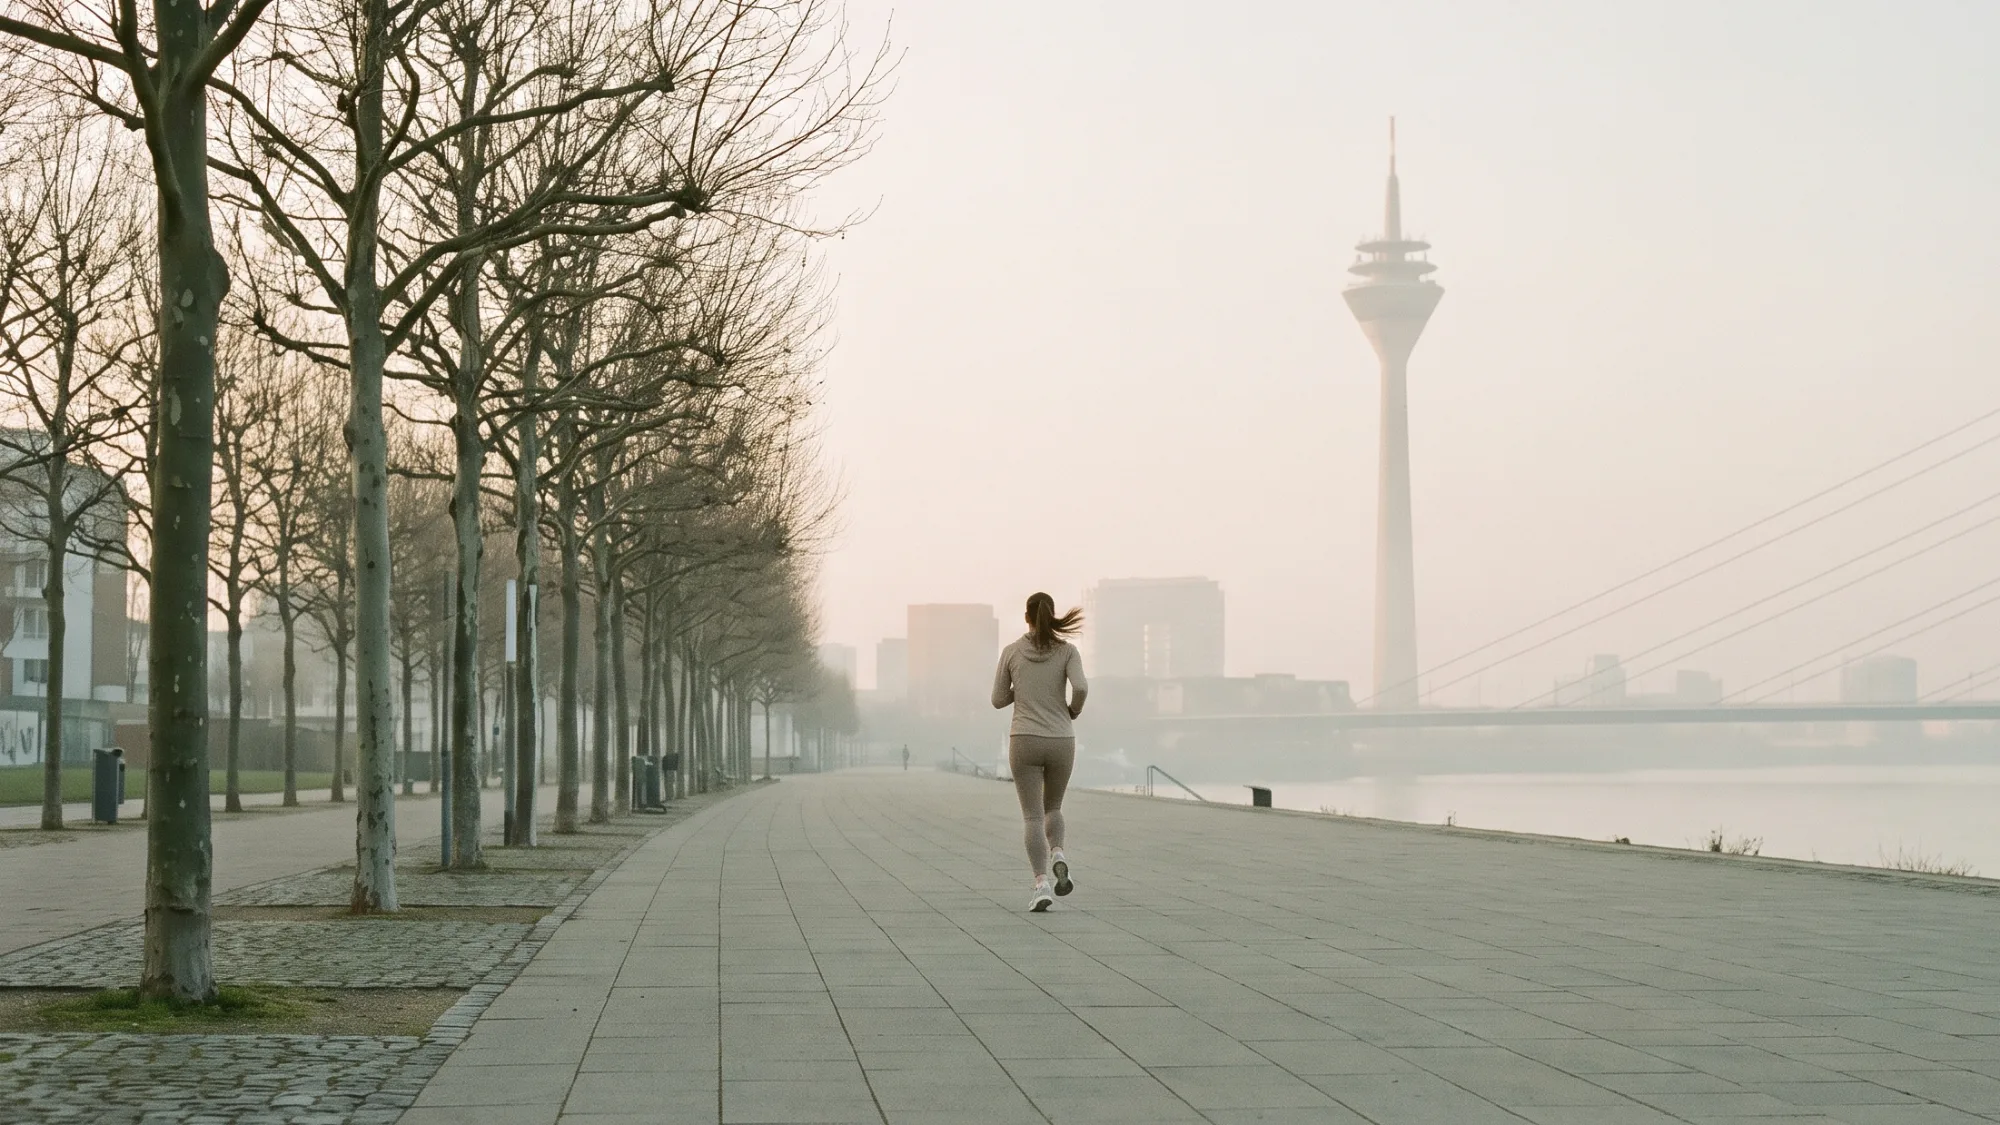
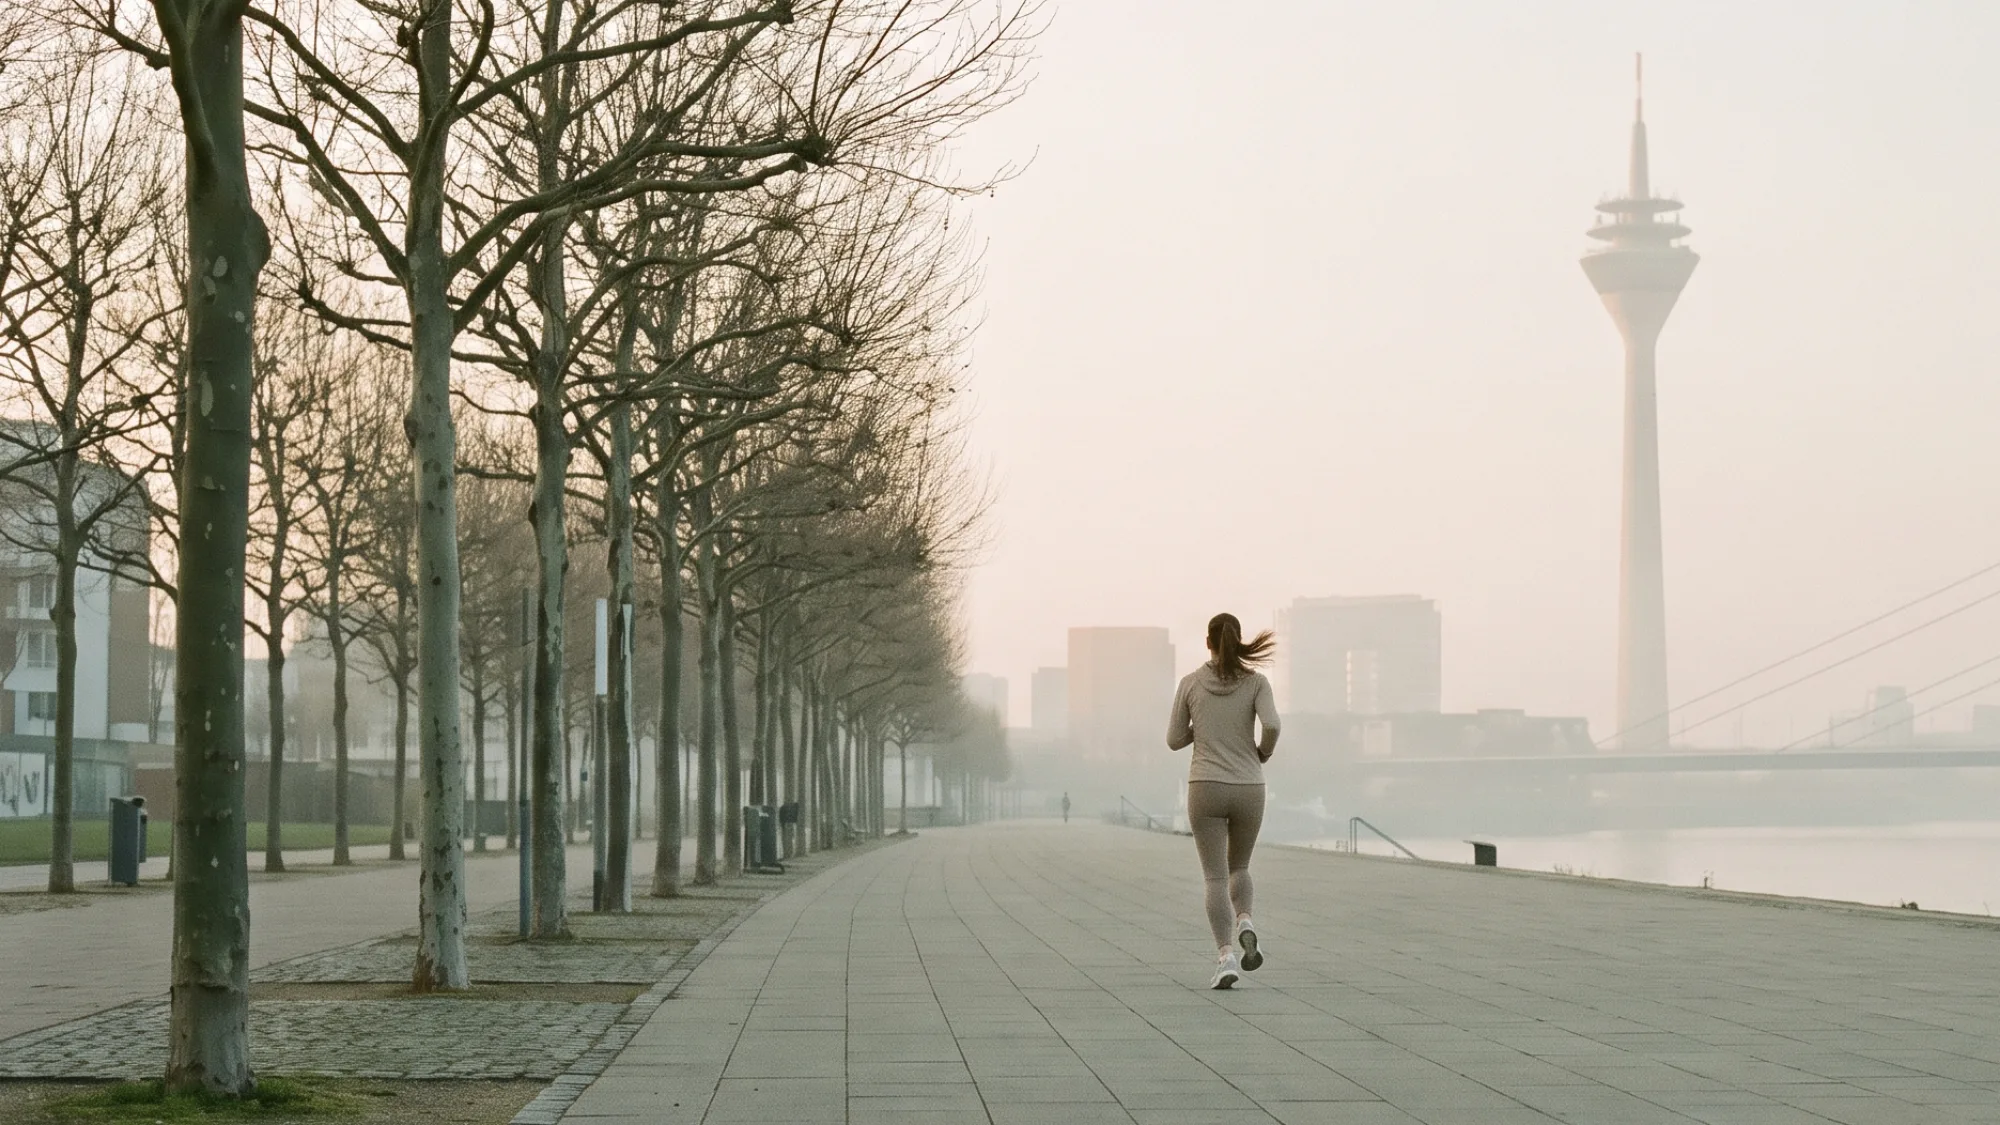
Kopfbereich: Laeuferin rechts, Verlauf laeuft bis 50 Prozent auf null aus
Bild
- Schnitt von 80 auf 68 Prozent der Ausgangsbreite. Die Laeuferin sitzt damit
  bei 63 statt 52 Prozent, also in der rechten Bildhaelfte; der Turm auf
  85 Prozent.

Verlauf
- Beginnt am linken Rand deckend und laeuft ueber die Textspalte langsam auf
  null aus. Ab 50 Prozent liegt das Bild unberuehrt.

Claude-Session: https://claude.ai/code/session_01MCzZxoEUh5GFgKkpCkqskb

diff --git a/src/app/page.tsx b/src/app/page.tsx
@@ -57,12 +57,12 @@ function Hero() {
         className="-z-20 object-cover object-center"
       />
 
-      {/* Der Verlauf deckt nur die linke Spalte ab und ist bei 55 Prozent zu
-          Ende. Ein Verlauf über die ganze Breite nimmt dem Bild die Farbe und
-          lässt die Skyline im Dunst verschwinden. */}
+      {/* Der Verlauf beginnt am linken Rand deckend und läuft über die
+          Textspalte langsam auf null aus - bei 50 Prozent, also am Ende des
+          Textes, ist er zu Ende. Ab dort liegt das Bild unberührt. */}
       <div
         aria-hidden="true"
-        className="absolute inset-0 -z-10 bg-gradient-to-b from-papier from-25% via-papier/75 via-55% to-papier/20 sm:bg-gradient-to-r sm:from-papier sm:from-22% sm:via-papier/70 sm:via-42% sm:to-transparent sm:to-56%"
+        className="absolute inset-0 -z-10 bg-gradient-to-b from-papier from-0% via-papier/60 via-26% to-transparent to-50% sm:bg-gradient-to-r sm:from-papier sm:from-0% sm:via-papier/60 sm:via-28% sm:to-transparent sm:to-50%"
       />
 
       <div className="mx-auto max-w-6xl px-6 py-16 sm:py-20 lg:py-24">
